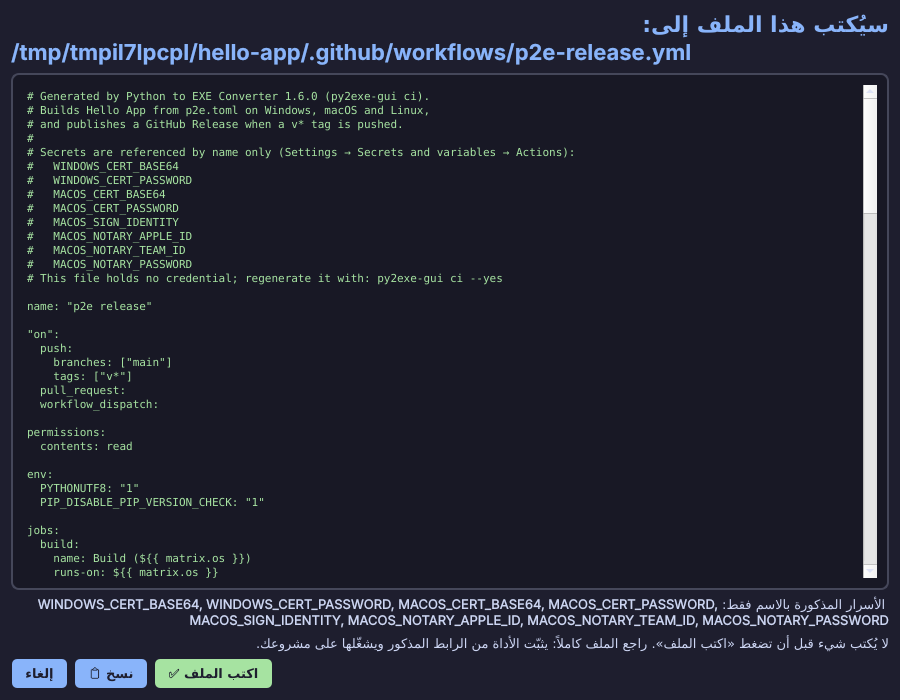
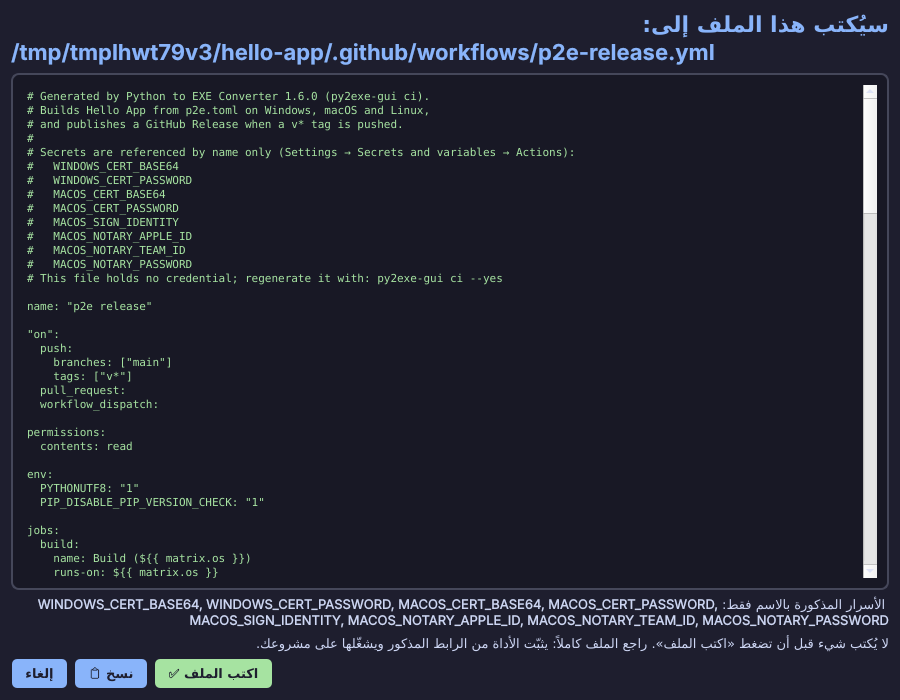
Document milestone 4: packagers, the CI generator, the Platforms tab
Claude-Session: https://claude.ai/code/session_019Xrs1GmhnkVukzHrqgFxqD

Changed region(s): [[0.1244, 0.06, 0.8089, 0.09]]

diff --git a/README_EN.md b/README_EN.md
@@ -26,7 +26,9 @@ version metadata, build history, and a Windows manifest editor.
 | **Signed self-updater** *(1.5)* | `update.json` signed with **Ed25519** (pure-Python verifier that passes the RFC 8032 test vectors); HTTPS only, redirects to HTTP refused, size and SHA-256 checked before anything is replaced. One-file EXEs swap in place and restart; folder builds launch a verified installer. Key pair and a *Create signed update.json* helper in the app |
 | **Nuitka engine** *(2.0)* | Choose **PyInstaller** or **Nuitka** (`engine` in `p2e.toml`, or `build --engine nuitka`). Nuitka compiles your modules to C: typically fewer antivirus false positives and extraction made **harder, not impossible**; builds are slower because a C compiler runs. What an engine cannot do (Runtime Kit, manifest...) is named before building; fixes are translated to Nuitka's options or marked as having no equivalent — no engine ever gets an option it does not have. The doctor checks the C compiler (MSVC/MinGW on Windows, gcc/clang elsewhere), the Python version and, on Linux, `patchelf`/`readelf`. **No download without your consent**: if Nuitka asks to download a tool, you are asked, for that build only. The size lab reads Nuitka's compilation report |
 | **Project file** *(1.6)* | One `p2e.toml` in your repository describes the whole project — build, Version Info, manifest, installer, signing (never the password), Runtime Kit and release settings. Paths are relative to the file, so a fresh checkout builds the same way. The GUI, presets, history and the command line all use this one model |
-| **Command line** *(1.6)* | `py2exe-gui init / doctor / build / size / env / release`, headless, no PyQt5 needed — for CI and scripts. Build logs stream with stage markers |
+| **Command line** *(1.6)* | `py2exe-gui init / doctor / build / size / compare / env / release / package / ci`, headless, no PyQt5 needed — for CI and scripts. Build logs stream with stage markers |
+| **Linux and macOS packages** *(2.0)* | An **AppImage** (`appimagetool`), a **`.deb`** (`dpkg-deb`, with `control`, a `.desktop` entry and an icon) and a **`.dmg`** (`hdiutil`, an `.app` bundle) from the same build, from the Platforms tab or `py2exe-gui package`; uploaded with the release. `appimagetool` and its runtime file are downloaded **only after you say yes**, and the tool runs with `--runtime-file` so it never goes online during a build |
+| **CI generator** *(2.0)* | `py2exe-gui ci` writes `.github/workflows/p2e-release.yml` into your repository — a Windows/macOS/Linux matrix that installs this command line (no Qt) and runs `release` against `p2e.toml`, pip and build caching, artifact uploads, and a GitHub Release on a `v*` tag — after showing you the whole file. Certificates and passwords are referenced as `${{ secrets.NAME }}` only; a test checks that secret-looking values never reach the file |
 | **One-click release** *(1.6)* | Version bump everywhere at once → notes drafted from `git log` → doctor gate → build → sign → installer → portable ZIP → `SHA256SUMS.txt` → signed `update.json` → git tag → GitHub release → winget manifests. A dry run shows every action first; nothing is tagged or uploaded before you confirm |
 | **Icon Studio** *(1.3)* | Real multi-size `.ico` (16–256px) from an image or from letters, drawn with Qt — no Pillow needed |
 | **Smart Analysis** | AST-based import detection (incl. `__import__` and `importlib`), `requirements.txt` import, hidden-imports auto-suggest |
@@ -142,6 +144,14 @@ repository = "me/image-tool"
 [release.winget]
 enabled = true
 identifier = "Me.ImageTool"
+
+[packaging]                  # new in 2.0: Linux and macOS packages
+appimage = true
+deb = true
+maintainer = "Me <me@example.com>"
+
+[ci]                         # new in 2.0: options for the generated workflow
+python_version = "3.12"
 ```
 
 - **New / Open / Save / Save As** and **Recent projects** are in the
@@ -168,7 +178,9 @@ headless and never imports PyQt5. Every command takes `--project PATH`
 | `py2exe-gui build [--strict] [--yes] [--engine nuitka] [--allow-downloads]` | Run the doctor, then build (in the isolated environment if the project says so). The log streams with `==> [stage] NN%` markers. `--strict` stops on doctor errors. `--engine` picks the engine for this run; `--allow-downloads` lets Nuitka download what it needs (otherwise you are asked) |
 | `py2exe-gui size [--json]` | The size lab on the last build |
 | `py2exe-gui env create\|lock\|delete [--yes]` | The isolated build environment |
-| `py2exe-gui release (--set-version X.Y.Z \| --bump major\|minor\|patch) [--notes FILE] [--dry-run] [--push-tag] [--no-tag] [--no-publish] [--allow-doctor-errors] [--yes]` | The release pipeline (below) |
+| `py2exe-gui release (--set-version X.Y.Z \| --bump major\|minor\|patch) [--notes FILE] [--dry-run] [--push-tag] [--no-tag] [--no-publish] [--allow-doctor-errors] [--allow-downloads] [--yes]` | The release pipeline (below); `--allow-downloads` lets the packages step fetch `appimagetool` |
+| `py2exe-gui package [--format appimage\|deb\|dmg] [--yes] [--allow-downloads] [--json]` | Package the last build: AppImage and `.deb` on Linux, `.dmg` on macOS. Formats default to `[packaging]` in `p2e.toml`; files go to `release/<version>/` |
+| `py2exe-gui ci [--yes] [--print] [--python X.Y] [--tool REQ] [--branch NAME]` | Show the whole `.github/workflows/p2e-release.yml`, then write it with your consent (`--print` only shows it) |
 
 **Consent works as in the window.** A step that reaches the network, installs
 or deletes — and a project file whose settings would run its own code
@@ -194,6 +206,32 @@ pip install git+https://github.com/abosalehg-ui/python_to_exe
 py2exe-gui doctor
 py2exe-gui build --strict --yes
 ```
+
+### CI for every platform (2.0)
+
+`py2exe-gui ci --yes` (or **Preview and write the workflow…** in the Platforms
+tab) writes `.github/workflows/p2e-release.yml` at the root of your repository:
+
+- A `build` job on `windows-latest`, `macos-latest` and `ubuntu-latest`: installs
+  this tool's command line with `pip install --no-deps` (no PyQt5), then
+  PyInstaller (and Nuitka when the project's engine is Nuitka) and your
+  `requirements.txt` if there is one, and runs
+  `py2exe-gui release --yes --no-tag --no-publish --allow-downloads` against
+  `p2e.toml`: the binary, the portable ZIP, the packages and `SHA256SUMS.txt`,
+  uploaded as an artifact.
+- pip caching (`actions/setup-python`) and a cache of the `build/` folder
+  (`actions/cache`).
+- A `release` job on a `v*` tag: downloads the three artifacts, merges the
+  checksum files and creates the GitHub Release with `gh release create`,
+  using the workflow's own token.
+- Windows signing and macOS notarization are optional (`[ci]`) and read the
+  certificates from the secrets `WINDOWS_CERT_BASE64`, `WINDOWS_CERT_PASSWORD`
+  and `MACOS_*` **by name only**. The file never holds a secret, and the
+  install URL is written in it for you to review.
+
+**Not yet run on Windows or macOS:** the `.dmg`, signing and notarization
+steps are written with their standard commands and tested as text only; what
+was exercised for real is the Linux job (AppImage and `.deb`).
 
 ## Release
 
@@ -263,6 +301,13 @@ git*, *From file*), GitHub settings (repository, tag prefix, draft,
 pre-release, which files to upload), the token (stored in the OS keyring, shown
 only as "stored"), winget identifiers, and the step checklist with live status.
 *Dry run* is ticked by default.
+
+### 🌍 Platforms
+Package formats (AppImage, `.deb`, `.dmg`) with the metadata a `.desktop`
+entry, a `control` file and an `Info.plist` need, a banner naming the formats
+this host cannot build, *Build packages from the last build* (asks before
+`appimagetool` is downloaded), and the GitHub Actions options with *Preview
+and write the workflow…*, which shows the whole file before writing it.
 
 ### 🩺 Project Doctor
 Readiness score, every predicted and actual problem in one list, and the fix
@@ -474,6 +519,13 @@ py2exe_gui/
 │   │   ├── nuitka.py     #   Nuitka, mapped from its own --help (4.2.2)
 │   │   ├── nuitka_report.py # size lab from Nuitka's --report XML
 │   │   └── prerequisites.py # C compiler, Python version, patchelf checks
+│   ├── packagers/        # AppImage, .deb, .dmg behind one Packager interface (2.0)
+│   │   ├── base.py       #   spec, result, .desktop layout, icons
+│   │   ├── appimage.py   #   AppDir + appimagetool (downloaded only with consent)
+│   │   ├── deb.py        #   DEBIAN/control + dpkg-deb
+│   │   ├── dmg.py        #   .app bundle + hdiutil (macOS only)
+│   │   └── icons.py      #   PNG from .ico with the standard library
+│   ├── ci_generator.py   # the GitHub Actions workflow for the user's repository (2.0)
 │   ├── builder.py        # command-line helpers (+ compatibility shim)
 │   ├── config.py
 │   ├── dependency_analyzer.py
@@ -542,7 +594,8 @@ See [IDEAS.md](IDEAS.md) for the full roadmap. Currently:
   command line, one-click release (GitHub Releases, checksums, signed
   update manifest, winget manifests)
 - 🚧 **2.0 (in progress):** ✅ engine layer `core/engines/` (milestone 1),
-  ✅ Nuitka engine (milestone 2); next compare mode, CI for all platforms, licensing, projects
+  ✅ Nuitka engine (milestone 2), ✅ compare mode and start-up benchmark (milestone 3),
+  ✅ CI generator and AppImage/.deb/.dmg packagers (milestone 4); next licensing, projects
   workspace, PySide6 — see [PRODUCT_ROADMAP.md](PRODUCT_ROADMAP.md)
 - ⏳ **Next:** venv management, multi-file projects, Linux/macOS installers,
   `.spec` editor, VirusTotal, PySide6 migration —

diff --git a/CHANGELOG.md b/CHANGELOG.md
@@ -5,6 +5,54 @@ follows [Keep a Changelog](https://keepachangelog.com/en/1.1.0/).
 
 ## [Unreleased]
 
+### 2.0.0-dev — Every platform, every engine (milestone 4: CI generator and Linux/macOS packagers)
+
+#### Added
+- **Packagers** (`core/packagers/`): one `Packager` interface for an
+  **AppImage** (`appimagetool`), a **`.deb`** (`dpkg-deb`, with
+  `DEBIAN/control`, a `.desktop` entry and a hicolor icon) and a **`.dmg`**
+  (`hdiutil`, an `.app` bundle with `Info.plist`, optional `codesign`). The
+  package metadata lives in a new `[packaging]` section of `p2e.toml`; the
+  formats a host cannot build are named before the build
+  (`platform_support`: AppImage and `.deb` are Linux-only, `.dmg` macOS-only).
+- **Consent before any download**: `appimagetool` and the AppImage runtime
+  file are fetched only after a yes (GUI question, CLI prompt,
+  `--allow-downloads`), into the per-user tools folder, and the tool is run
+  with `--runtime-file` so it never goes online during a build. The SHA-256
+  of each download is logged and compared with the one recorded here.
+- **Release step `packages`** between the portable ZIP and the checksums:
+  the packages are checksummed and uploaded with the release.
+- **CI generator** (`core/ci_generator.py`): writes
+  `.github/workflows/p2e-release.yml` into the project's repository — a
+  Windows/macOS/Linux matrix that installs the command line (no Qt), runs
+  `py2exe-gui release --no-tag --no-publish` against `p2e.toml` with pip
+  and build caching, uploads the release folder, and a tag-triggered (`v*`)
+  job that merges the checksums and creates the GitHub Release with `gh`.
+  Secrets (`WINDOWS_CERT_BASE64`, `WINDOWS_CERT_PASSWORD`, `MACOS_*`) are
+  referenced as `${{ secrets.NAME }}` only; a test pushes secret-looking
+  values through every input and checks none reaches the output. Options in
+  a new `[ci]` section.
+- **Nothing is written without a preview**: the GUI shows the whole file
+  with its path and the secret names and writes only on *Write the file*;
+  `py2exe-gui ci` prints it and asks (or takes `--yes`; `--print` only shows).
+- **Platforms tab** (`🌍`): package formats and metadata, *Build packages
+  from the last build*, GitHub Actions options and the preview button.
+- Command line: `py2exe-gui package [--format appimage|deb|dmg] [--yes]
+  [--allow-downloads] [--json]`, `py2exe-gui ci [--yes] [--print] [--python
+  X.Y] [--tool REQ] [--branch NAME]`, `release --allow-downloads`, and
+  `P2E_MACOS_SIGN_IDENTITY` for the `.dmg`.
+- Icons for Linux packages with the standard library only: a `.png` as is,
+  a `.ico` holding a PNG or a 32-bit BMP converted, otherwise a plain
+  placeholder tile (reported as a warning).
+
+#### Verified
+- Real `.deb` and AppImage built in a Linux container from a PyInstaller
+  one-file build, inspected (`dpkg-deb -I/-c`, `--appimage-extract`) and run;
+  the full CI command `release --yes --no-tag --no-publish --allow-downloads`
+  produced the binary, the ZIP, both packages and `SHA256SUMS.txt` in 9 s.
+  `actionlint` 1.7.7 accepts the generated workflow. The `.dmg`, Windows
+  signing and macOS notarization steps were **not** executed (no such host).
+
 ### 2.0.0-dev — Every platform, every engine (milestone 3: compare mode)
 
 #### Added

diff --git a/PRODUCT_ROADMAP.md b/PRODUCT_ROADMAP.md
@@ -389,6 +389,24 @@ PyInstaller. **التميّز لن يأتي من واجهة أجمل لنفس ا
   ومكتبة التشغيل غير مدعومة مع Nuitka (لا مقابل لـ `--runtime-hook`) ويُرفض البناء برسالة
   واضحة بدل إنتاج EXE ناقص.
 
+- **المرحلة 3 — وضع المقارنة وقياس زمن الإقلاع ✅:** `core/compare.py` يبني المشروع بكل
+  محرك في `p2e_compare/<engine>` ويعرض الحجم وزمن البناء والإقلاع ونتيجة اختبار التشغيل
+  مع توصية مُعلَّلة؛ `core/startup_bench.py` وسيط عدة تشغيلات بطريقة قياس تُذكر دائماً.
+- **المرحلة 4 — مولّد CI وحزم Linux/macOS ✅:** `core/packagers/` واجهة `Packager` واحدة
+  لـ AppImage (appimagetool) و`.deb` (dpkg-deb) و`.dmg` (hdiutil)، وقسم `[packaging]`
+  في `p2e.toml`، وخطوة `packages` في خط الإصدار، وتبويب «المنصات». `core/ci_generator.py`
+  يكتب `.github/workflows/p2e-release.yml` في مستودع المستخدم (مصفوفة Windows/macOS/Linux
+  تشغّل `release --no-tag --no-publish`، تخزين مؤقت لـ pip والبناء، artifacts، ومهمة إصدار
+  عند وسم `v*`) بعد معاينة وموافقة، ولا يُكتب أي سر: الأسرار بالاسم `${{ secrets.NAME }}`
+  فقط وهناك اختبار يدفع قيماً تشبه الأسرار عبر كل مدخل ويتحقق أنها لا تصل إلى الملف.
+  **القرارات:** appimagetool وملف runtime لا يُنزَّلان إلا بموافقة ويُمرَّر `--runtime-file`
+  فلا تتصل الأداة بالشبكة أثناء البناء (كانت تنزّل runtime في منتصف البناء)؛ البناء
+  المستمر «continuous» من مشروع AppImage هو القناة الوحيدة فتُسجَّل بصمته ويُبلَّغ عن
+  اختلافها لا يُرفض؛ تُثبَّت الأداة في CI بـ `--no-deps` فلا يُسحب PyQt5 على المشغّلات.
+  **ما قيس:** بُني `.deb` وAppImage حقيقيان في حاوية Linux من بناء PyInstaller وفُحصا
+  وشُغِّلا (أمر CI كاملاً في 9 ثوانٍ)، وactionlint يقبل الملف المولَّد. **لم يُنفَّذ:**
+  `.dmg` وتوقيع Windows وتوثيق macOS (لا مضيف لذلك هنا)؛ مكتوبة ومختبرة بأوامرها فقط.
+
 الخطة الأصلية لـ 1.3 للمرجع:
 
 1. `core/diagnostics/warn_parser.py`: قراءة `warn-*.txt` وعرضها مصنّفة.
